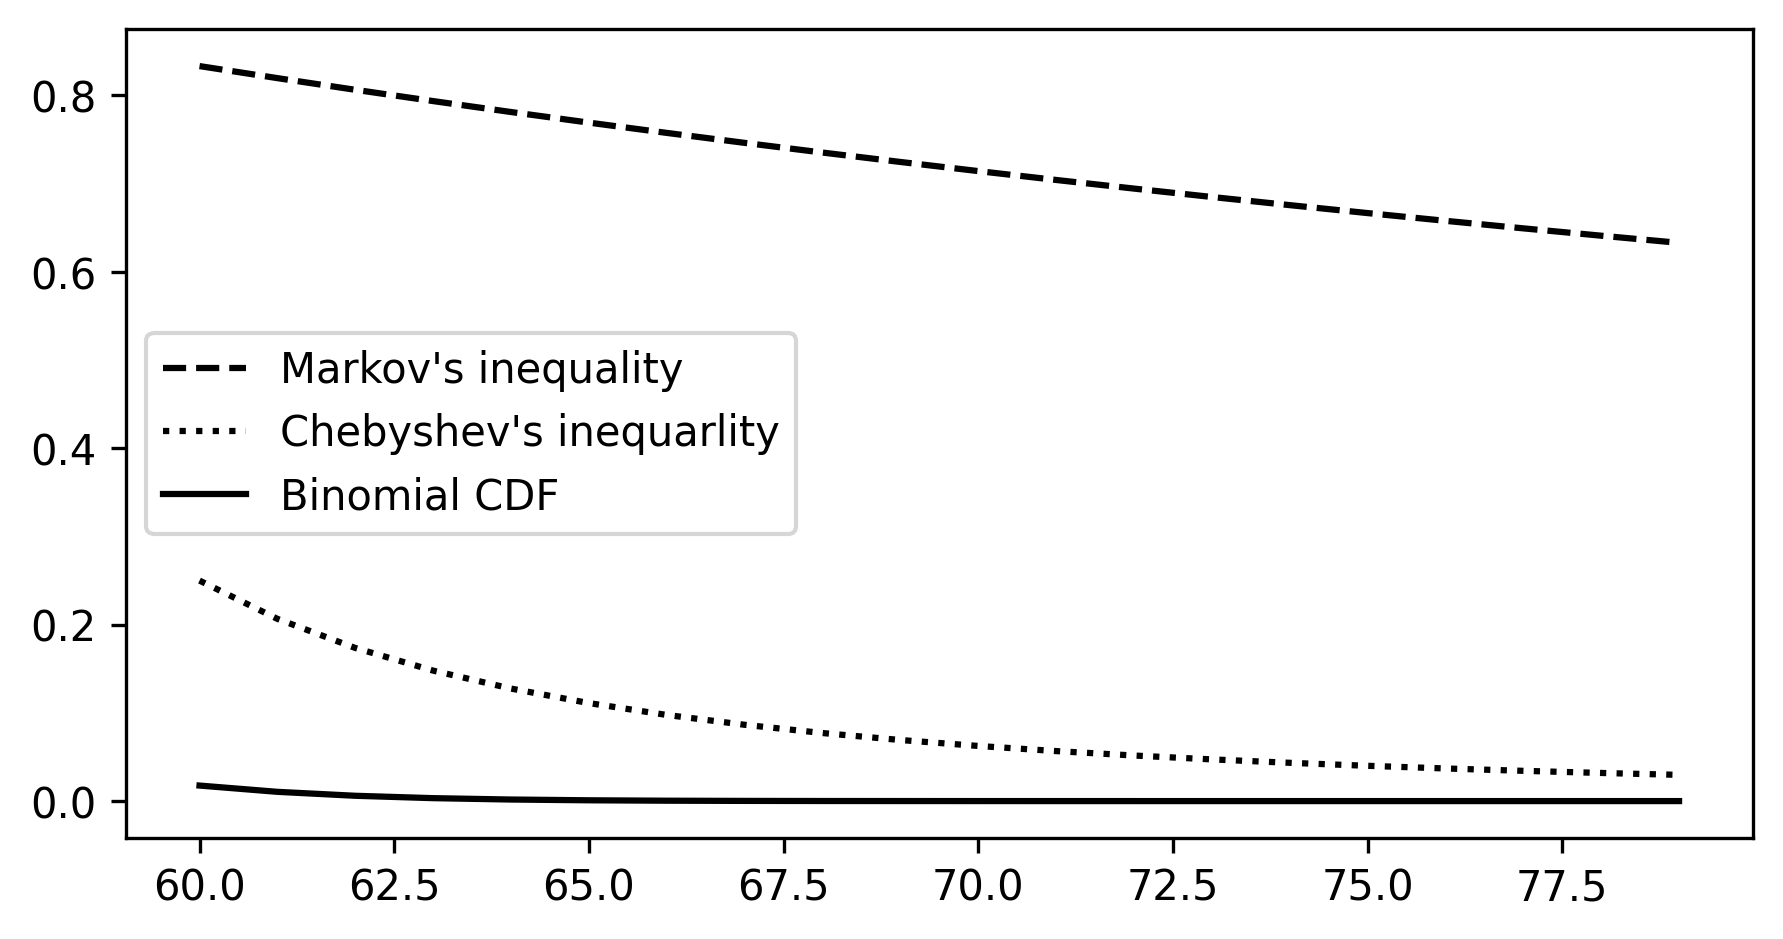
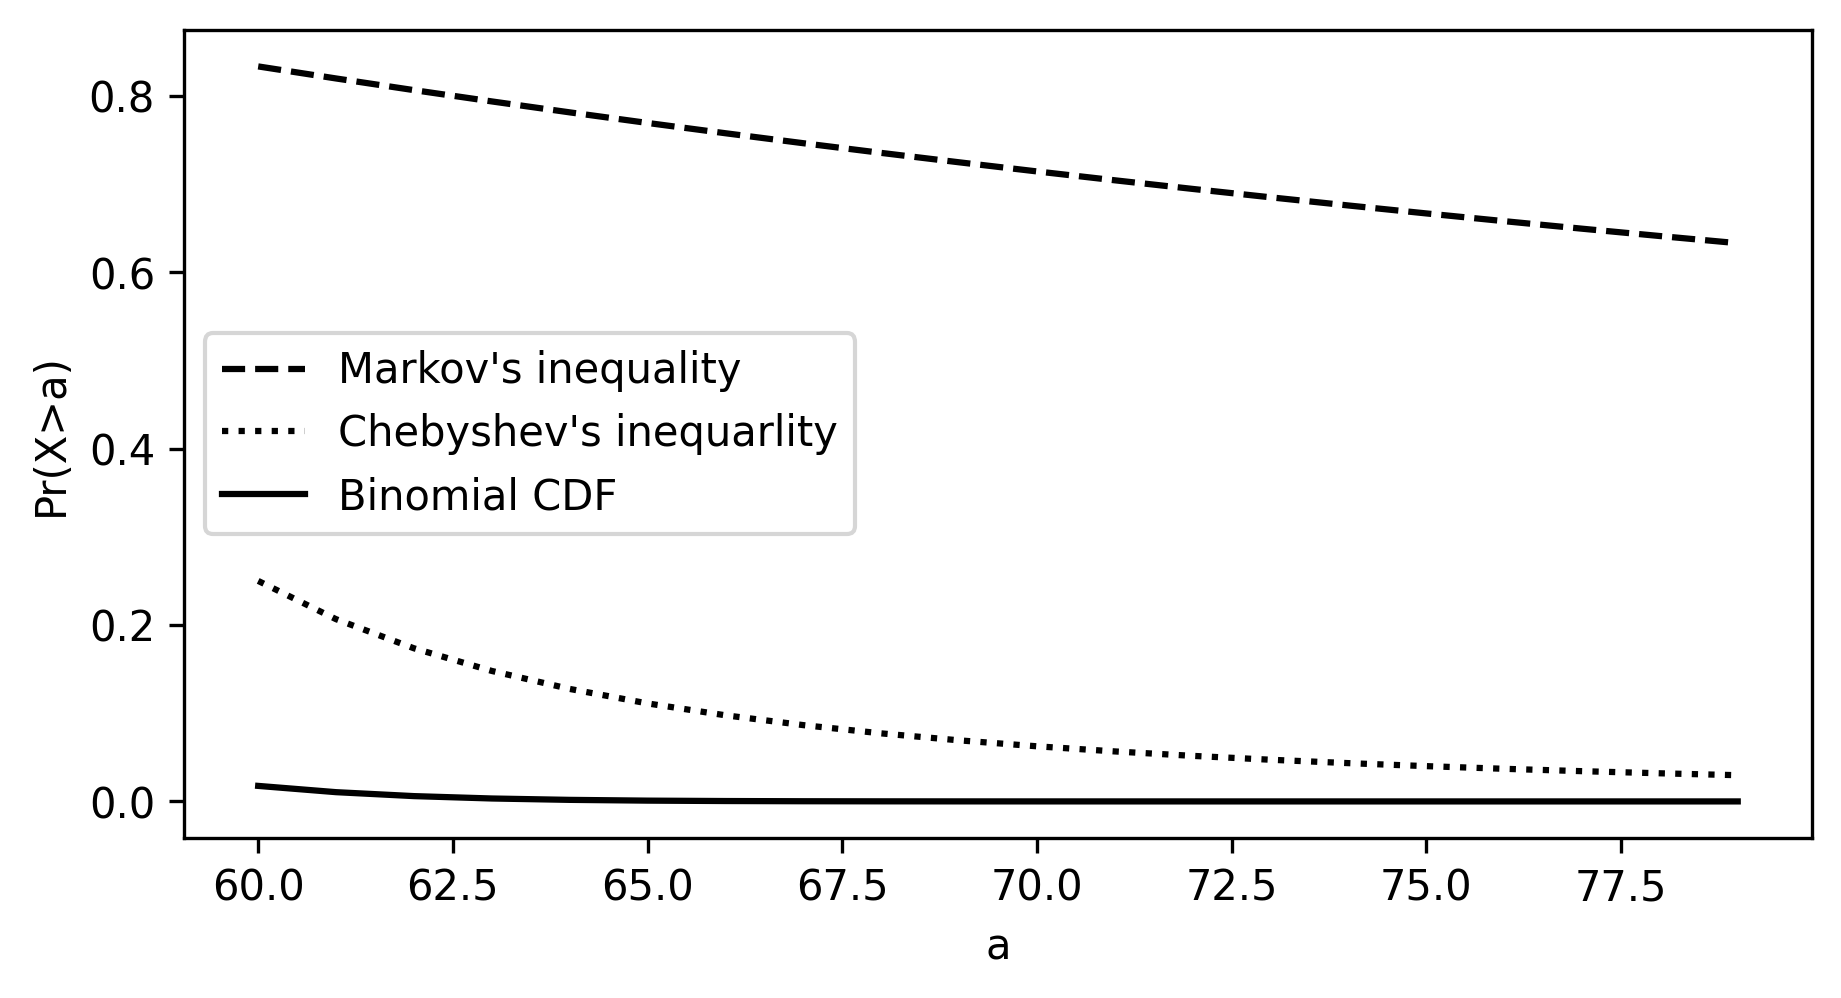
[update] figure

diff --git a/docs/_math/probabilistic_thinking.py b/docs/_math/probabilistic_thinking.py
@@ -337,6 +337,8 @@ def plot_bounds():
     ax.plot(h, markov, 'k--', label="Markov's inequality")
     ax.plot(h, chebyshev, 'k:', label="Chebyshev's inequarlity")
     ax.plot(h, binomial, 'k', label="Binomial CDF")
+    ax.set_xlabel("a")
+    ax.set_ylabel("Pr(X>a)")
     ax.legend(loc='center left')
         
     
